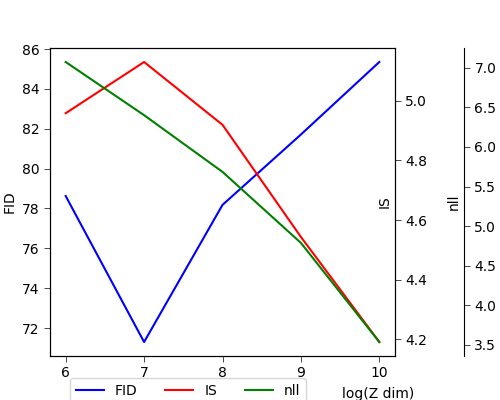
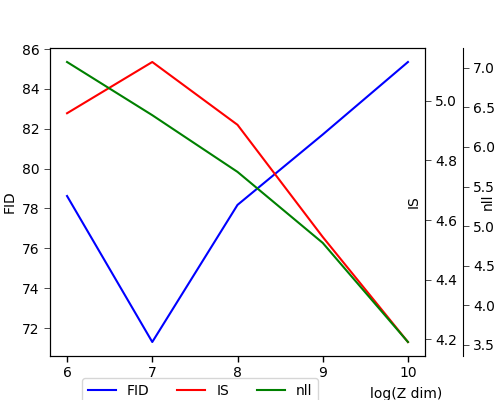
using compare gan fid function

diff --git a/code/experiments/tab4.py b/code/experiments/tab4.py
@@ -84,14 +84,14 @@ def tw():
 
 
     fig, host = plt.subplots(figsize=(5,4))
-    fig.subplots_adjust(left=0.1,right=0.79)
+    fig.subplots_adjust(left=0.1,right=0.85)
 
     par1 = host.twinx()
     par2 = host.twinx()
     
     # Offset the right spine of par2.  The ticks and label have already been
     # placed on the right by twinx above.
-    par2.spines["right"].set_position(("axes", 1.2))
+    par2.spines["right"].set_position(("axes", 1.1))
     # Having been created by twinx, par2 has its frame off, so the line of its
     # detached spine is invisible.  First, activate the frame but make the patch
     # and spines invisible.
@@ -118,12 +118,13 @@ def tw():
     # host.yaxis.label.set_color(p1.get_color())
     # par1.yaxis.label.set_color(p2.get_color())
     # par2.yaxis.label.set_color(p3.get_color())
-
+    xtkw = dict(size=4, width=1)
     tkw = dict(size=4, width=0.5)
     host.tick_params(axis='y', **tkw)
+    host.set_xticks(Z_dim)
     par1.tick_params(axis='y', **tkw)
     par2.tick_params(axis='y', **tkw)
-    host.tick_params(axis='x', **tkw)
+    host.tick_params(axis='x', **xtkw)
 
     lines = [p1, p2, p3]
 
